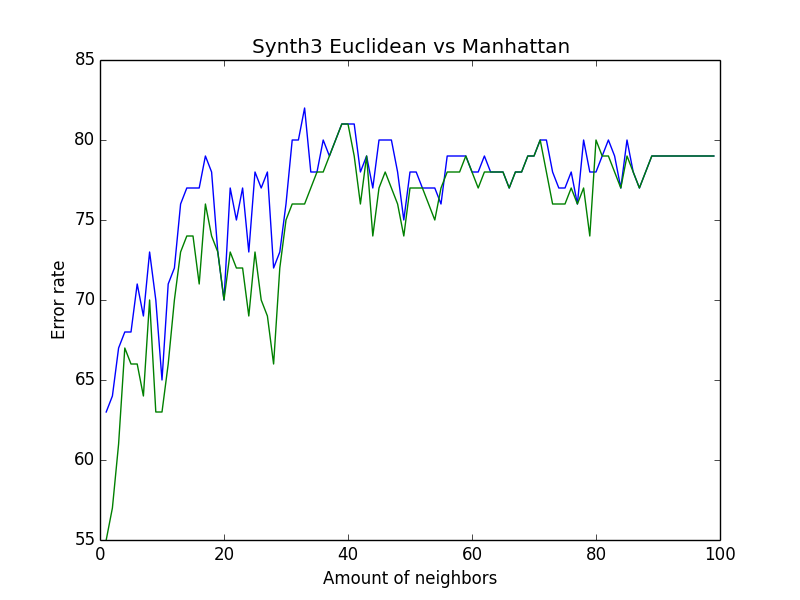
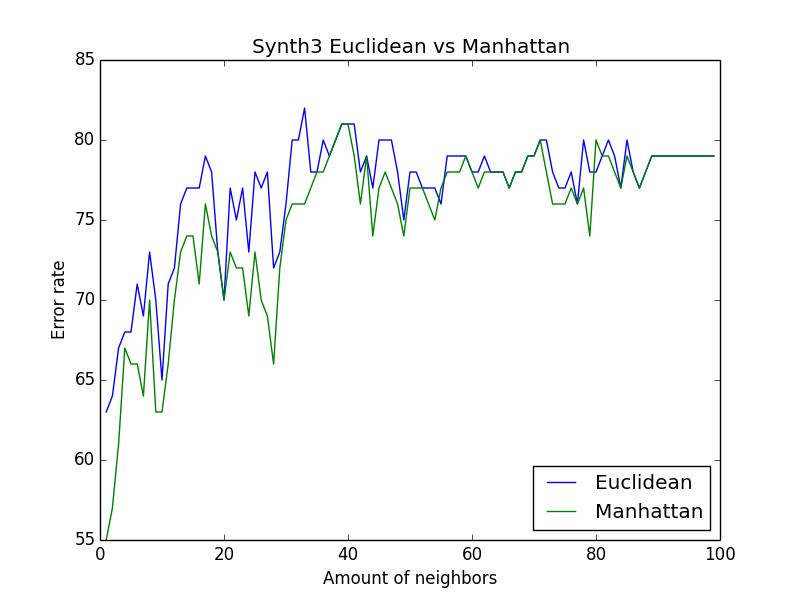
finished 6.1

Changed region(s): [[0.6562, 0.75, 0.9062, 0.9]]

diff --git a/Homework06/exercise 6-1-1.py b/Homework06/exercise 6-1-1.py
@@ -83,11 +83,12 @@ for i in range(1, trainSize):
     manScore = 100 - np.multiply(mf.score(S1Xtest, S1Ytest), 100)
     S1man.append(manScore)
 
-plot(xaxis, S1euc)
-plot(xaxis, S1man)
+plotE, = plot(xaxis, S1euc)
+plotM, = plot(xaxis, S1man)
 title('Synth1 Euclidean vs Manhattan')
 xlabel('Amount of neighbors')
 ylabel('Error rate')
+plt.legend([plotE, plotM], ['Euclidean', 'Manhattan'], loc=4)
 show()
 
 #Synth2
@@ -106,11 +107,12 @@ for i in range(1, trainSize):
     manScore = 100 - np.multiply(mf.score(S2Xtest, S2Ytest), 100)
     S2man.append(manScore)
 
-plot(xaxis, S2euc)
-plot(xaxis, S2man)
+plotE, = plot(xaxis, S2euc)
+plotM, = plot(xaxis, S2man)
 title('Synth2 Euclidean vs Manhattan')
 xlabel('Amount of neighbors')
 ylabel('Error rate')
+plt.legend([plotE, plotM], ['Euclidean', 'Manhattan'], loc=4)
 show()
 
 #Synth3
@@ -129,35 +131,34 @@ for i in range(1, trainSize):
     manScore = 100 - np.multiply(mf.score(S3Xtest, S3Ytest), 100)
     S3man.append(manScore)
 
-plot(xaxis, S3euc)
-plot(xaxis, S3man)
+plotE, = plot(xaxis, S3euc)
+plotM, = plot(xaxis, S3man)
 title('Synth3 Euclidean vs Manhattan')
 xlabel('Amount of neighbors')
 ylabel('Error rate')
+plt.legend([plotE, plotM], ['Euclidean', 'Manhattan'], loc=4)
 show()
 
 #Synth4
-S4euc = []
-S4man = []
-xaxis = []
-trainSize = np.divide(np.size(S4Xtrain), 2)
-for i in range(1, trainSize):
-    xaxis.append(i)
-    euc = neighbors.KNeighborsClassifier(n_neighbors=i, metric='euclidean')
-    ef = euc.fit(S4Xtrain, S4Ytrain.ravel())
-    eucScore = 100 - np.multiply(ef.score(S4Xtest, S4Ytest), 100)
-    S4euc.append(eucScore)
-    man = neighbors.KNeighborsClassifier(n_neighbors=i, metric='manhattan')
-    mf = man.fit(S4Xtrain, S4Ytrain.ravel())
-    manScore = 100 - np.multiply(mf.score(S3Xtest, S3Ytest), 100)
-    S4man.append(manScore)
+# S4euc = []
+# S4man = []
+# xaxis = []
+# trainSize = np.divide(np.size(S4Xtrain), 2)
+# for i in range(1, trainSize):
+#     xaxis.append(i)
+#     euc = neighbors.KNeighborsClassifier(n_neighbors=i, metric='euclidean')
+#     ef = euc.fit(S4Xtrain, S4Ytrain.ravel())
+#     eucScore = 100 - np.multiply(ef.score(S4Xtest, S4Ytest), 100)
+#     S4euc.append(eucScore)
+#     man = neighbors.KNeighborsClassifier(n_neighbors=i, metric='manhattan')
+#     mf = man.fit(S4Xtrain, S4Ytrain.ravel())
+#     manScore = 100 - np.multiply(mf.score(S3Xtest, S3Ytest), 100)
+#     S4man.append(manScore)
 
-plot(xaxis, S4euc)
-plot(xaxis, S4man)
-title('Synth4 Euclidean vs Manhattan')
-xlabel('Amount of neighbors')
-ylabel('Error rate')
-show()
-
-#6.1.2
-# Iris = xl.open_workbook('Data/iris.xls')
+# plotE, = plot(xaxis, S4euc)
+# plotM, = plot(xaxis, S4man)
+# title('Synth4 Euclidean vs Manhattan')
+# xlabel('Amount of neighbors')
+# ylabel('Error rate')
+# plt.legend([plotE, plotM], ['Euclidean', 'Manhattan'], loc=4)
+# show()

diff --git a/Homework06/exercise 6-1-2.py b/Homework06/exercise 6-1-2.py
@@ -1,0 +1,67 @@
+from sklearn.neighbors import KNeighborsClassifier as nb
+import matplotlib.pyplot as plt
+import numpy as np
+from scipy.io import loadmat
+import sklearn.cluster
+import sklearn.metrics as metrics
+from xlrd import open_workbook
+from sklearn.cross_validation import LeaveOneOut as loo
+
+
+
+workbook=open_workbook('Data/iris.xls')
+sheet=workbook.sheet_by_index(0)
+#convert xls file into a python array and change characters into numerical values.
+dataArray = []
+for i in range (1, 151):
+    row = sheet.row_values(i)
+    dataArray.append(row)
+data=np.asarray(dataArray)
+for i in range(0,150):
+    if data[i,4]=='Iris-setosa':
+        data[i,4]=0
+    if data[i,4]=='Iris-versicolor':
+        data[i,4]=1
+    if data[i,4]=='Iris-virginica':
+        data[i,4]=2
+X=[]
+X=np.delete(data,4,axis=1)
+Y=data[:,4]
+posEuclidean=[]
+errorEuclidean=[]
+euclideanK=[]
+loo=loo(150)
+X_test=[]
+Y_test=[]
+X_train=[]
+Y_train=[]
+plt.xlabel("K")
+plt.ylabel("error rate (%)")
+for train, test in loo:
+    X_test.append(X[test].tolist())
+    Y_test.append(Y[test].tolist())
+    X_train=X[train]
+    Y_train=Y[train]
+
+X_test=np.asarray(X_test)
+Y_test=np.asarray(Y_test)
+Y_train=np.asarray(Y_train)
+X_train=np.asarray(X_train)
+X_test = [l[0] for l in X_test]
+Y_test = [l[0] for l in Y_test]
+
+for k in range (1, 40):
+    euclideanK.append([k])
+    nbrs = nb(n_neighbors=k, metric='euclidean')
+    fitted = nbrs.fit(X_train, Y_train)
+    y_pred = fitted.predict(X_test)
+    conf = metrics.confusion_matrix(Y_test, y_pred)
+    print conf
+    correct = 0
+    for i in range(0,3):
+        correct += conf[i][i]
+    errorRate = np.multiply(np.divide((150 - correct), float(150)), 100)
+    posEuclidean.append(errorRate)
+
+plt.plot(euclideanK,posEuclidean)
+plt.show()

diff --git a/Homework06/exercise 6-2.py b/Homework06/exercise 6-2.py
@@ -1,0 +1,70 @@
+import numpy as np
+import neurolab as nl
+from scipy.io import loadmat
+# from Scripts import decision_boundaries
+from sklearn.model_selection import KFold
+import matplotlib.pyplot as plt
+from sklearn import tree
+import pydotplus
+
+Data=loadmat('Data/xor.mat')
+X=Data['X']
+y=Data['y']
+# plt.scatter(X[:,0],X[:,1],c=y)
+# plt.show()
+
+kf = KFold(n_splits=10)
+# for train, test in kf.split(X):
+    # print train
+    # print test
+
+
+kTrainX = []
+kTestX = []
+kTrainY = []
+kTestY = []
+
+
+for train, test in kf.split(X, y):
+    kTrainX.append(X[train])
+    kTrainY.append(y[train])
+    kTestX.append(X[test])
+    kTestY.append(y[test])
+
+
+kTrees = []
+for fold in range (0, len(kTrainX)):
+    kTree = []
+    kclf = tree.DecisionTreeClassifier()
+    kclf = kclf.fit(kTrainX[fold], kTrainY[fold])
+    kTree.append(kclf)
+    kTrees.append(kTree)
+
+kTrainPerc = []
+wrongs = 0
+for fold in range (0, len(kTrees)):
+    setPerc = []
+    clf = kTrees[fold][0]
+    AW = 0.0
+    for i in range (0, len(kTestX[fold])):
+        if clf.predict([kTestX[fold][i]]) != kTestY[fold][i]:
+            AW += 1
+    kTrainPerc.append(np.divide(AW, len(kTestX[fold])) * 100)
+    wrongs += AW
+
+print wrongs/len(X) * 100
+
+
+
+
+
+
+net=nl.net.newff([[0,1],[0,1]],[1,1],[nl.trans.TanSig(), nl.trans.TanSig()])
+
+err=net.train(X,y, goal=0.5)
+
+out=net.sim(X)
+plt.ylabel('error')
+plt.xlabel('epoch')
+plt.plot(err)
+# plt.show()

diff --git a/Homework06/exercise 6-1-3.py b/Homework06/exercise 6-1-3.py
@@ -1,0 +1,50 @@
+from scipy.io import loadmat
+from sklearn.neighbors import KNeighborsClassifier as nb
+from pylab import *
+import math as m
+
+import numpy as np
+
+Wine = loadmat('Data/wine.mat')
+X = Wine['X']
+NAA = np.delete(X,10,axis=1) #NonAlcoholAttritutes
+AP = X[:,10] #AlcoholPercentage
+
+#Convert the alcoholPercentages form float to long. Otherwise we get a "type is continuous"-error
+APT = []
+for i in range(len(AP)):
+    APT.append(long(AP[i]))
+
+
+# knn = nb(n_neighbors=4, metric='euclidean')
+# knn.fit(NAA, APT)
+#
+# nbr = knn.kneighbors([NAA[5]], n_neighbors=7)
+# print nbr[1][0]
+xaxis = []
+predError = []
+for k in range(1, 40):
+    xaxis.append(k)
+    print k
+    predAP = []
+    knn = nb(n_neighbors=k, metric='euclidean')
+    knn.fit(NAA, APT)
+    for i in range(len(AP)):
+        nbr = knn.kneighbors([NAA[i]], n_neighbors=k+1)
+        sumAP = 0.0
+        for n in range(len(nbr[1][0])):
+            if (nbr[1][0][n] != i):
+                sumAP += AP[nbr[1][0][n]]
+        predAP.append(np.divide(sumAP, k))
+    error = 0.0
+    for p in range(len(predAP)):
+        error += m.pow((predAP[p] - AP[p]), 2)
+    predError.append(np.divide(error, len(predAP)))
+
+print predError
+
+plt.plot(xaxis, predError)
+plt.title('Mean Squared Error with k neighbors')
+plt.xlabel('neighbors (k)')
+plt.ylabel('Mean Squared Error')
+plt.show()
